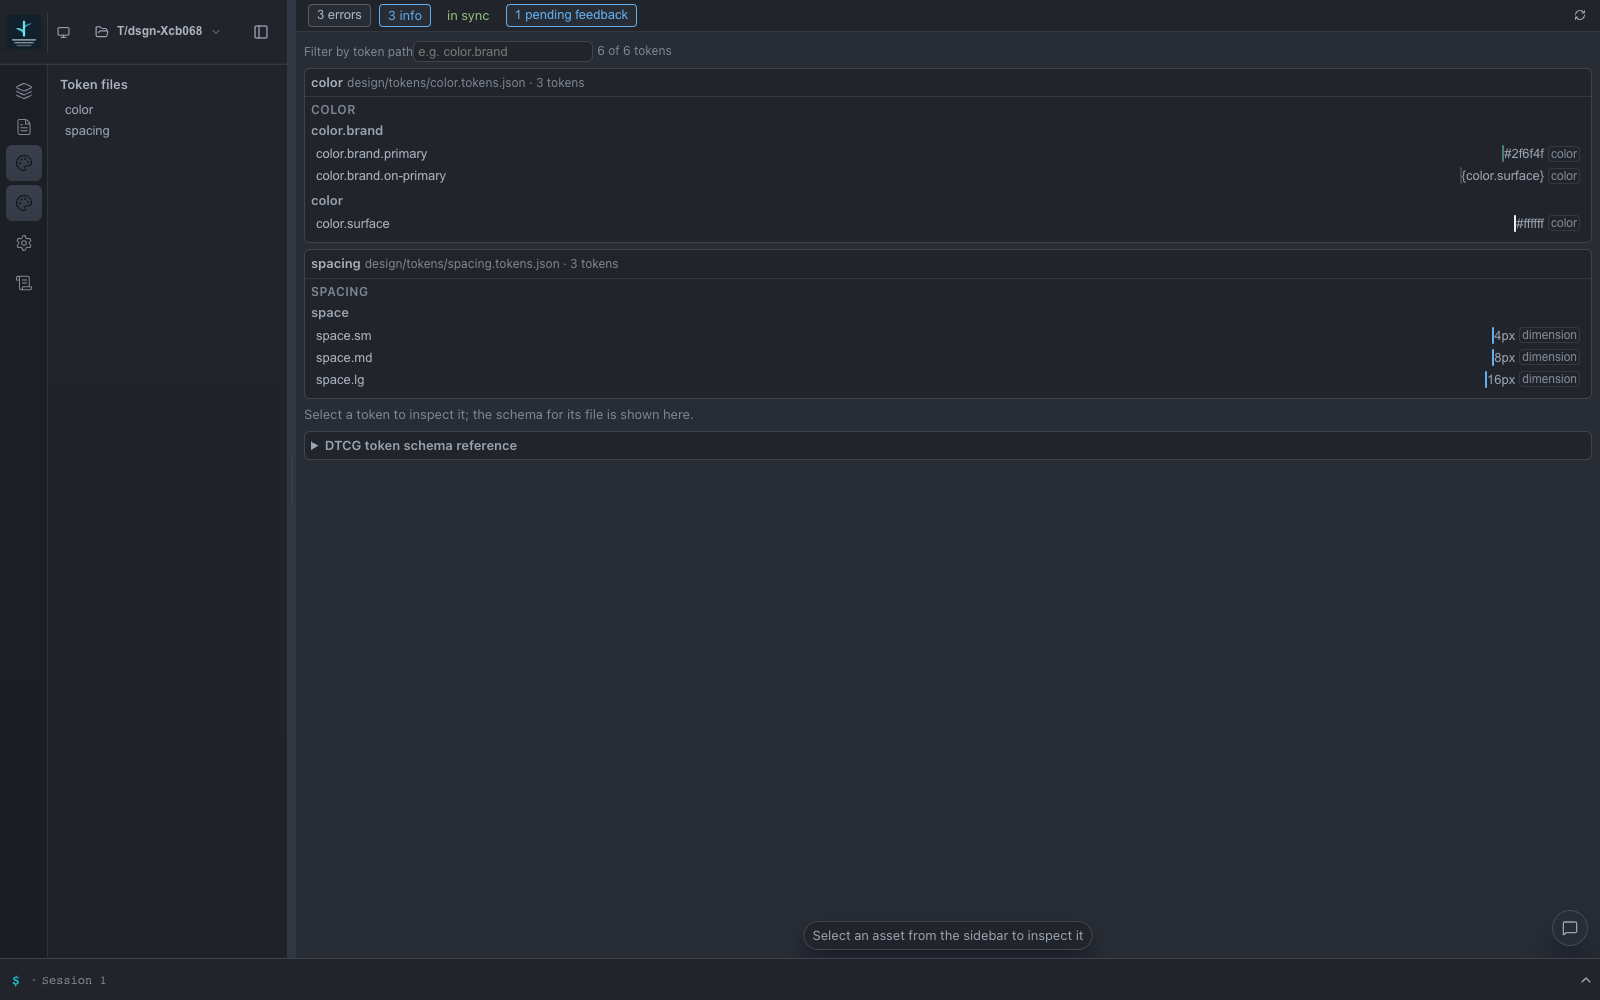
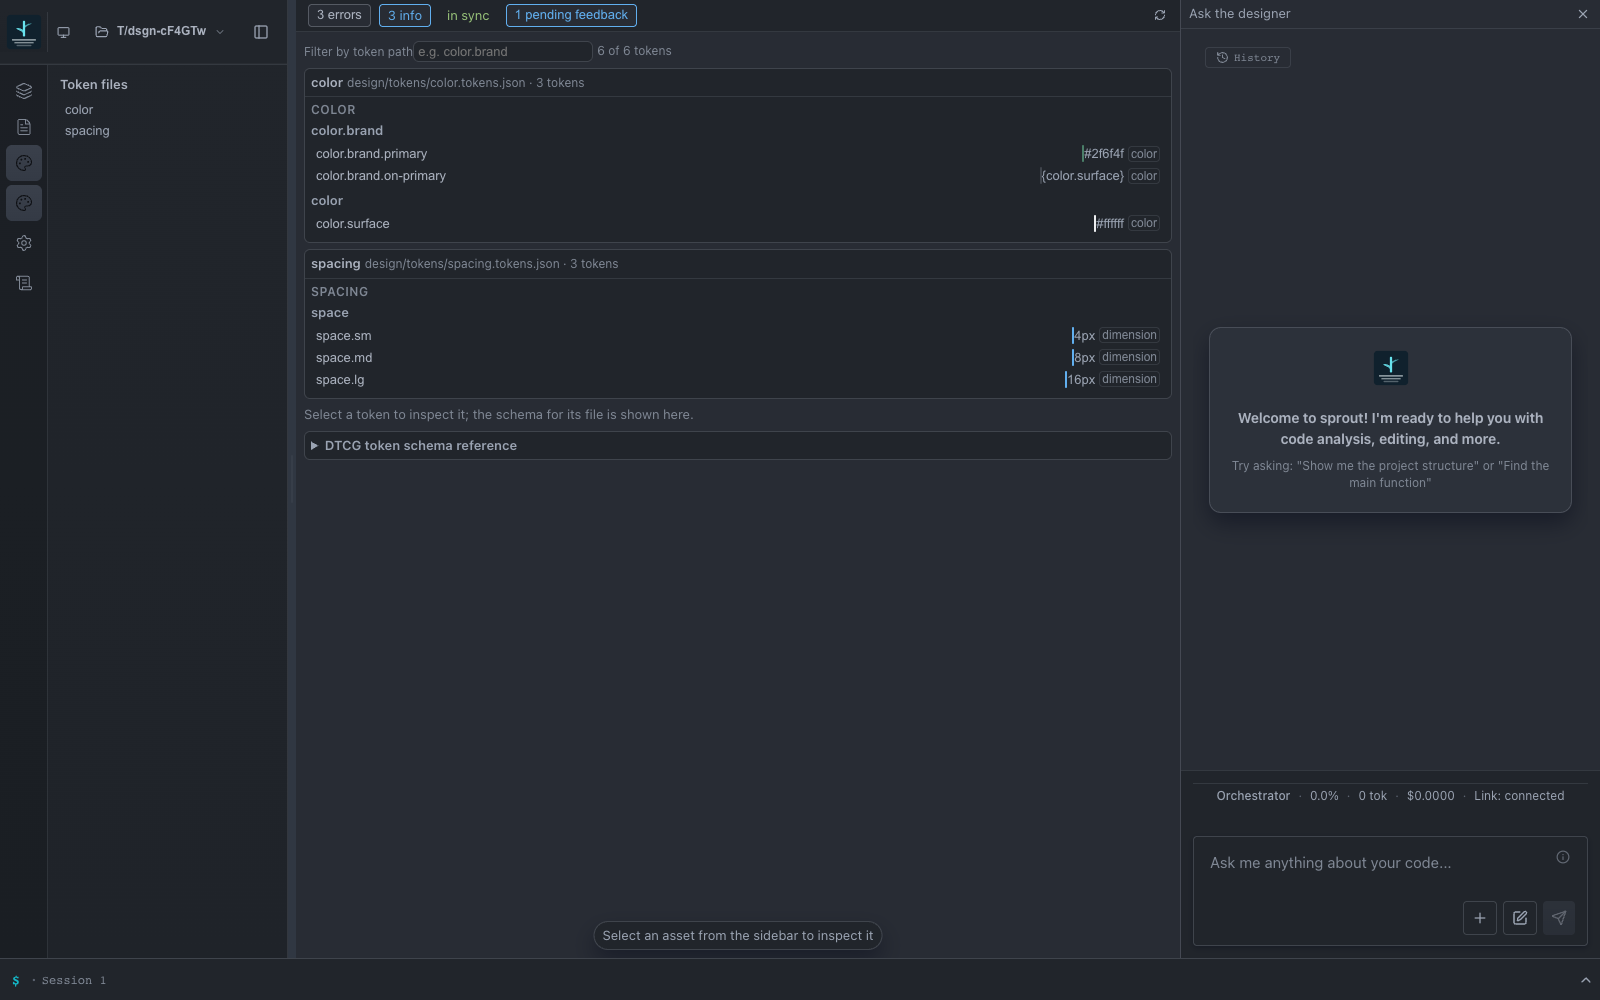
Design agent panel: docked by default, live mock-LLM exchange in PR shots
The SP-140 PR screenshots showed the design surfaces but never the chat
working them - the one integration SP-140-6 §6f exists for. Three fixes:

- DesignShell docks the agent panel open by default. Chat beside the
  canvas is the point of Design mode; collapse stays available via the
  FAB (mobile keeps its overlay behavior).
- MockLLMProvider gains a FIFO responseQueue (SPROUT_MOCK_LLM_QUEUE,
  entries split on a multi-line-safe separator) so the capture harness
  can script a turn-exact exchange. Turn 1 emits an inline fenced-JSON
  design_validate call that seed's fallback parser recovers into a real
  structured tool call and executes against the seeded design/ tree;
  turn 2 synthesizes over the actual findings. The PR shot shows a
  genuine tool run, not a staged transcript.
- Capture script: seeds workspace.json with context_mode=full (the mock
  model's 128K window auto-detects Low-Context Mode, whose 13-tool
  allowlist excludes design_*), pins a stable client id before app boot
  (fresh-profile id minting can diverge between the WS and fetch paths,
  and the server's multi-tab filter then drops every query event),
  sends the prompt through the panel input, and waits for the tool
  badge + synthesis before screenshotting.

Also sanitizes SPROUT_SERVICE/SPROUT_DAEMON leaks in the e2e sprout
fixture: harnesses running inside a sprout session inherited service
mode, which changes WS event routing.
[…]

diff --git a/webui/src/workspaces/DesignShell.tsx b/webui/src/workspaces/DesignShell.tsx
@@ -29,9 +29,12 @@ const DesignShell: React.FC<WorkspaceShellProps> = ({
   chat,
   design,
 }) => {
-  // §6f agent presence: open/closed plus the pending prefill (consumed once
-  // it has landed in the chat input).
-  const [agentOpen, setAgentOpen] = useState(false);
+  // §6f agent presence: the chat is a docked column of the Design surface
+  // and is OPEN BY DEFAULT — directing the design loop from chat is the
+  // point of the mode, so the panel is part of the layout, not an overlay
+  // the user has to summon. Collapse is still available (remembers its
+  // state per mount), and on mobile the panel keeps its overlay behavior.
+  const [agentOpen, setAgentOpen] = useState(true);
   const [prefill, setPrefill] = useState<string | null>(null);
 
   const askAgent = useCallback((prompt: string) => {

diff --git a/test/webui/fixtures/sprout.ts b/test/webui/fixtures/sprout.ts
@@ -137,6 +137,15 @@ export async function startSprout(opts: StartSproutOptions = {}): Promise<Sprout
   };
   delete env.CI;
   delete env.GITHUB_ACTIONS;
+  // Sanitize daemon/service env leaks: when the e2e harness itself runs
+  // inside a sprout agent session, SPROUT_SERVICE/SPROUT_DAEMON leak into
+  // the spawned backend and flip it into service/daemon mode, which
+  // changes WebSocket event routing (live chat events never reach the
+  // browser). The fixture backend must run in plain local mode.
+  delete env.SPROUT_SERVICE;
+  delete env.SPROUT_DAEMON;
+  delete env.SPROUT_DAEMON_ROOT;
+  delete env.SPROUT_WEB_TERMINAL;
 
   const bin = path.join(REPO_ROOT, 'sprout');
   const child = spawn(bin, args, {

diff --git a/pkg/agent/mock_provider_test.go b/pkg/agent/mock_provider_test.go
@@ -431,3 +431,73 @@ func TestAgentCreation_WithUseMockLLM(t *testing.T) {
 		t.Errorf("GetProvider = %q, want %q", got, "mock")
 	}
 }
+
+// --- TestMockLLMProvider_ResponseQueue ---
+// The FIFO queue wins over prompt matching and the default, consuming one
+// entry per model call, so a harness can script a multi-step design-loop
+// exchange (tool call turn → synthesis turn). When the queue drains the
+// provider falls back to the normal paths.
+func TestMockLLMProvider_ResponseQueue(t *testing.T) {
+	m := NewMockLLMProvider()
+	m.mu.Lock()
+	m.responseQueue = []string{
+		"First turn: running the check.\n```json\n{\"tool_calls\":[{\"type\":\"function\",\"function\":{\"name\":\"design_validate\",\"arguments\":\"{}\"}}]}\n```",
+		"Second turn: the tree is clean.",
+	}
+	m.mu.Unlock()
+	ctx := context.Background()
+
+	// Turn 1 — consumes the queue head (a fenced tool call).
+	resp1, err := m.SendChatRequest(ctx, []api.Message{{Role: "user", Content: "check the design tree"}}, nil, "", false)
+	if err != nil {
+		t.Fatalf("turn 1: %v", err)
+	}
+	if !strings.Contains(resp1.Choices[0].Message.Content, "design_validate") {
+		t.Errorf("turn 1: expected queued tool-call response, got: %s", resp1.Choices[0].Message.Content)
+	}
+
+	// Turn 2 — consumes the second entry.
+	resp2, err := m.SendChatRequest(ctx, []api.Message{{Role: "user", Content: "anything else"}}, nil, "", false)
+	if err != nil {
+		t.Fatalf("turn 2: %v", err)
+	}
+	if !strings.Contains(resp2.Choices[0].Message.Content, "tree is clean") {
+		t.Errorf("turn 2: expected queued synthesis response, got: %s", resp2.Choices[0].Message.Content)
+	}
+
+	// Turn 3 — queue drained, falls back to the default path.
+	resp3, err := m.SendChatRequest(ctx, []api.Message{{Role: "user", Content: "and now"}}, nil, "", false)
+	if err != nil {
+		t.Fatalf("turn 3: %v", err)
+	}
+	if !strings.Contains(resp3.Choices[0].Message.Content, "I received:") {
+		t.Errorf("turn 3: expected default fallback after queue drained, got: %s", resp3.Choices[0].Message.Content)
+	}
+}
+
+// --- TestSeedMockLLMResponseQueueFromEnv ---
+func TestSeedMockLLMResponseQueueFromEnv(t *testing.T) {
+	m := NewMockLLMProvider()
+
+	// Unset → no queue.
+	t.Setenv("SPROUT_MOCK_LLM_QUEUE", "")
+	seedMockLLMResponseQueueFromEnv(m)
+	m.mu.Lock()
+	got := len(m.responseQueue)
+	m.mu.Unlock()
+	if got != 0 {
+		t.Fatalf("empty env: expected no queue entries, got %d", got)
+	}
+
+	// Set → entries split on the separator, blanks dropped.
+	sep := mockLLMQueueEntrySeparator
+	t.Setenv("SPROUT_MOCK_LLM_QUEUE",
+		"first "+sep+" second\nmulti-line "+sep+" "+sep+" third")
+	seedMockLLMResponseQueueFromEnv(m)
+	m.mu.Lock()
+	got = len(m.responseQueue)
+	m.mu.Unlock()
+	if got != 3 {
+		t.Fatalf("expected 3 queued entries (blank dropped), got %d", got)
+	}
+}

diff --git a/pkg/agent/mock_provider.go b/pkg/agent/mock_provider.go
@@ -25,7 +25,22 @@ type MockLLMProvider struct {
 	debug             bool
 	// contextLimit overrides the default 128K context window when non-zero. Used by tests for LCM or the context floor.
 	contextLimit int
+	// responseQueue, when non-empty, is consumed FIFO ahead of the
+	// prompt-match/default paths. Each entry is a full assistant message
+	// (text, or text + an inline fenced JSON tool call the seed loop's
+	// fallback parser recovers). This lets a caller script a multi-step
+	// tool-using exchange — the queue advances once per model call, so
+	// turn N's response can trigger tool execution and turn N+1's
+	// response synthesizes the result. Seeded via the
+	// SPROUT_MOCK_LLM_QUEUE env var (newline-separated, \n---\n entry
+	// separator) by the screenshot/e2e harnesses.
+	responseQueue []string
 }
+
+// mockLLMQueueEntrySeparator separates queued assistant responses in the
+// SPROUT_MOCK_LLM_QUEUE env var. Chosen so entries themselves can carry
+// newlines (fenced JSON tool calls are multi-line).
+const mockLLMQueueEntrySeparator = "\n---MOCK-LIGHTWEIGHT-TURN---\n"
 
 // NewMockLLMProvider creates a new mock LLM provider with sensible defaults.
 func NewMockLLMProvider() *MockLLMProvider {
@@ -58,6 +73,13 @@ func getLastUserMessage(messages []api.Message) string {
 // was found or a built-in stub matched.
 func (m *MockLLMProvider) resolveResponse(userMsg string) (string, bool) {
 	lower := strings.ToLower(userMsg)
+
+	// 0. Scripted FIFO queue wins — the harness seeds exact turn order.
+	if len(m.responseQueue) > 0 {
+		resp := m.responseQueue[0]
+		m.responseQueue = m.responseQueue[1:]
+		return resp, true
+	}
 
 	// 1. Check registered custom responses (substring match)
 	m.mu.Lock()

diff --git a/pkg/agent/mock_provider_init.go b/pkg/agent/mock_provider_init.go
@@ -4,6 +4,8 @@ package agent
 
 import (
 	"context"
+	"os"
+	"strings"
 
 	api "github.com/sprout-foundry/sprout/pkg/agent_api"
 	"github.com/sprout-foundry/sprout/pkg/configuration"
@@ -27,6 +29,7 @@ func tryMockLLMAgent(model string, configManager *configuration.Manager, workspa
 		client.SetModel(model)
 	}
 	client.SetDebug(isDebugEnvEnabled())
+	seedMockLLMResponseQueueFromEnv(client)
 
 	providerName := client.GetProvider()
 	systemPrompt, err := GetEmbeddedSystemPromptWithProvider(providerName)
@@ -47,4 +50,29 @@ func tryMockLLMAgent(model string, configManager *configuration.Manager, workspa
 		isProduction:    true,
 	})
 	return true, agent, err
+}
+
+// seedMockLLMResponseQueueFromEnv loads SPROUT_MOCK_LLM_QUEUE into the
+// provider's FIFO response queue. Entries are separated by
+// mockLLMQueueEntrySeparator so a single entry may itself be multi-line
+// (inline fenced-JSON tool calls are). Empty entries are dropped; an unset
+// or empty variable leaves the queue nil and the provider behaves exactly
+// as before. This is the screenshot/e2e hook: it scripts a multi-turn
+// design-loop exchange (tool call → synthesis) without a live model.
+func seedMockLLMResponseQueueFromEnv(client *MockLLMProvider) {
+	raw := os.Getenv("SPROUT_MOCK_LLM_QUEUE")
+	if strings.TrimSpace(raw) == "" {
+		return
+	}
+	parts := strings.Split(raw, mockLLMQueueEntrySeparator)
+	queued := make([]string, 0, len(parts))
+	for _, p := range parts {
+		if strings.TrimSpace(p) == "" {
+			continue
+		}
+		queued = append(queued, p)
+	}
+	client.mu.Lock()
+	client.responseQueue = queued
+	client.mu.Unlock()
 }
